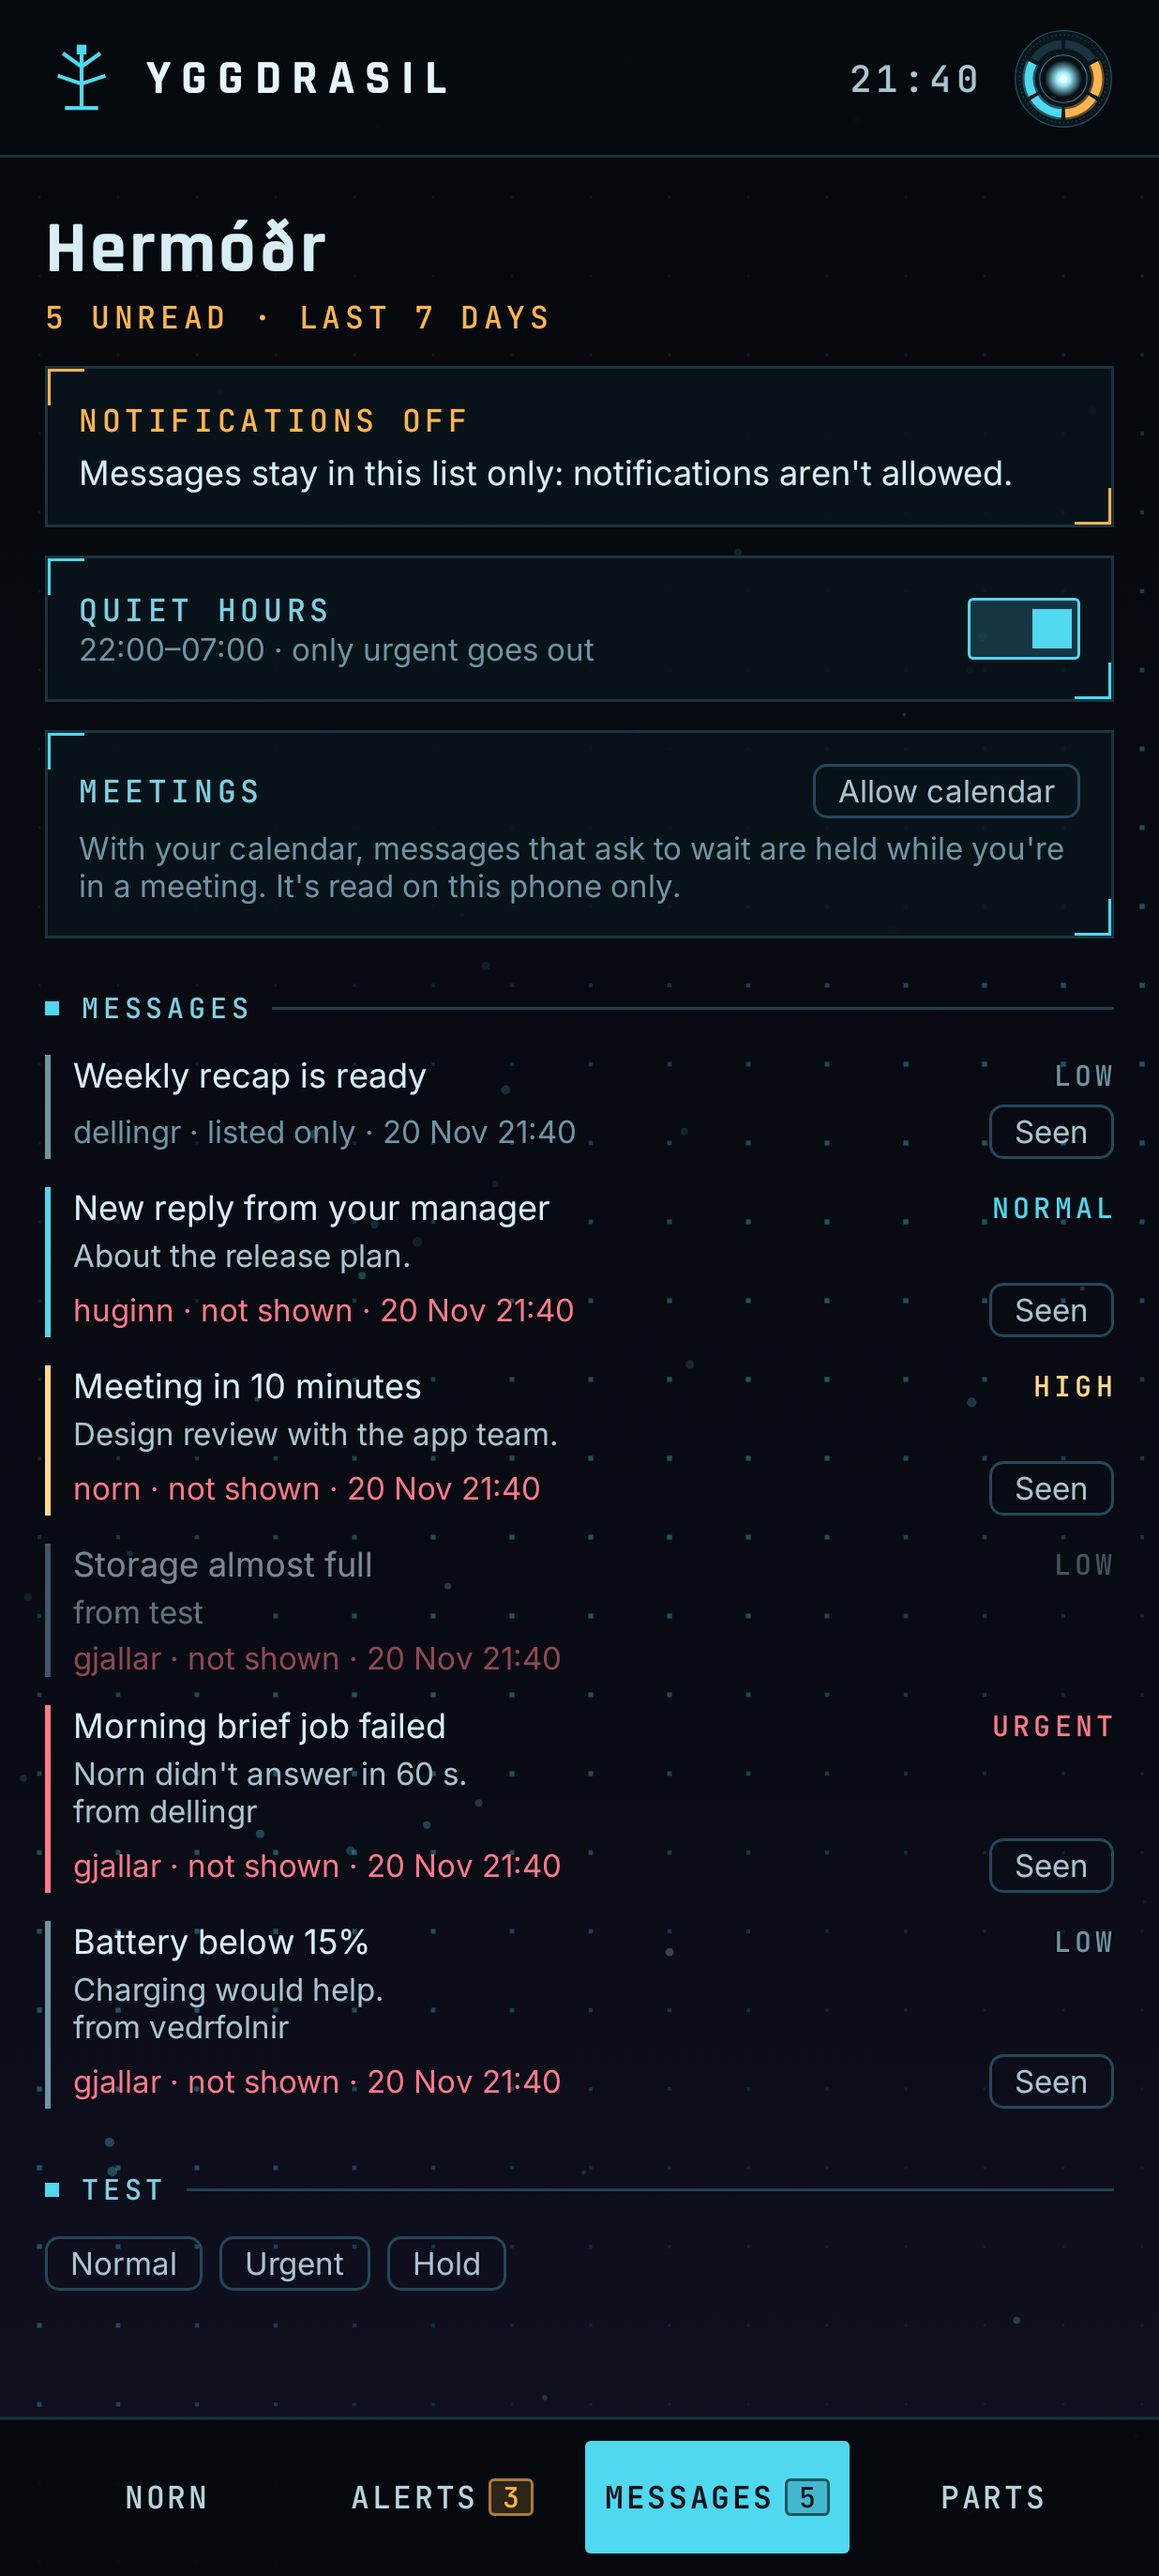
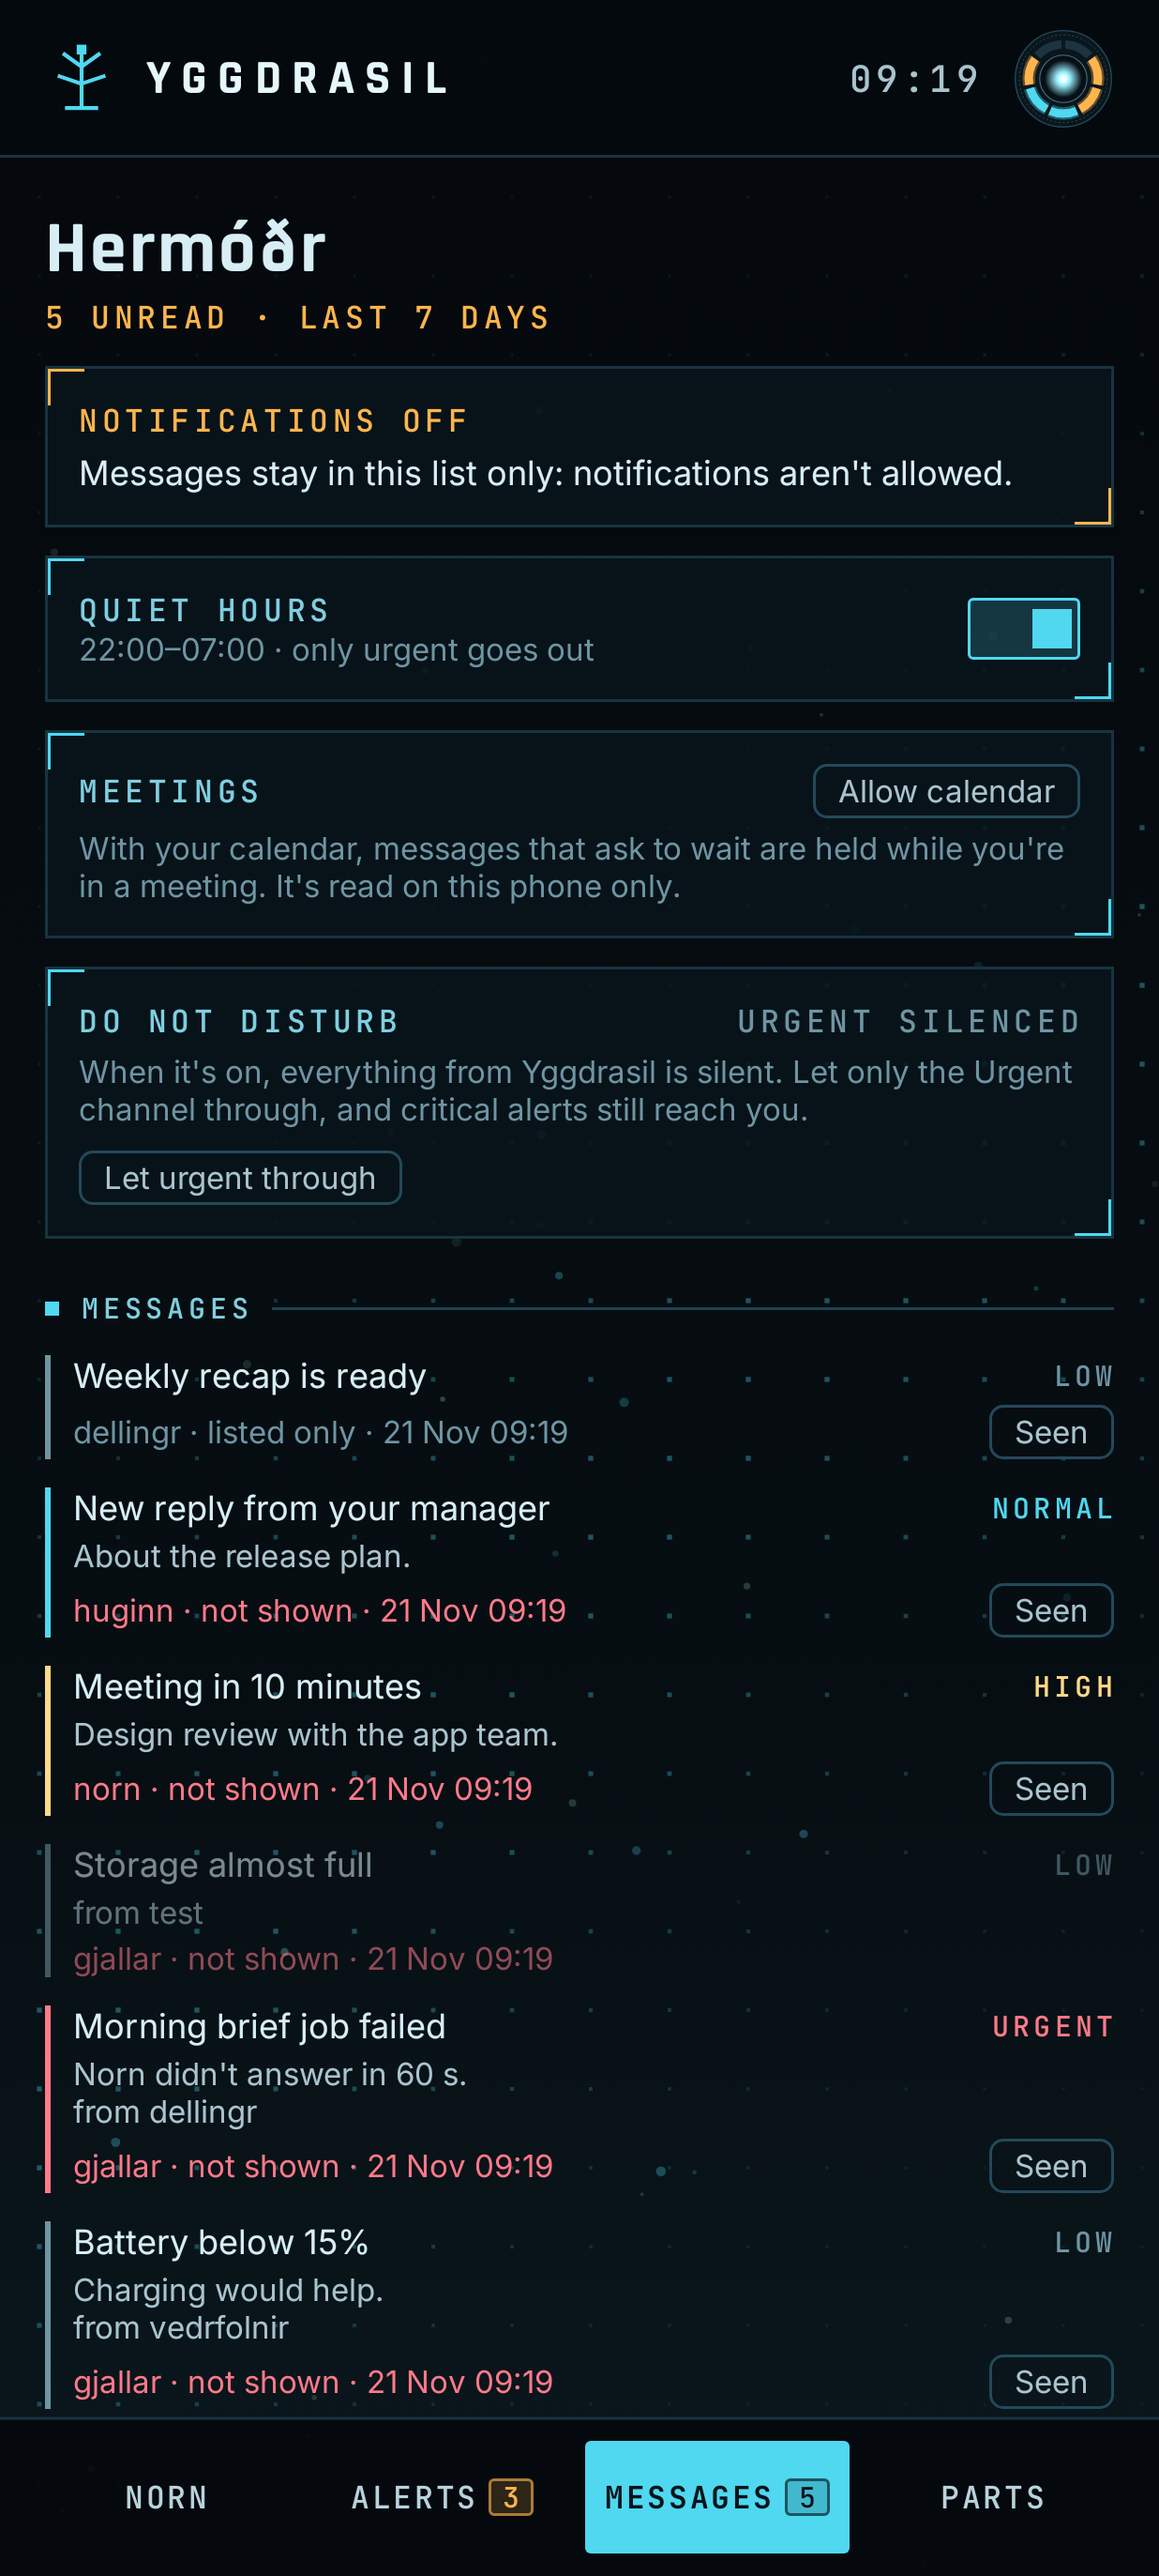
Show whether urgent messages get through Do Not Disturb
The Messages tab says whether Do Not Disturb is on and whether the
Urgent channel overrides it, and "Let urgent through" opens Android's
settings for that channel, the only place it can be switched on.

Claude-Session: https://claude.ai/code/session_01Ju5GZy8GGCdj4YrdykkjWf

diff --git a/app/src/main/java/io/github/sebbejohansson/yggdrasil/hermodr/MessagesScreen.kt b/app/src/main/java/io/github/sebbejohansson/yggdrasil/hermodr/MessagesScreen.kt
@@ -68,6 +68,7 @@ data class MessagesUiState(
     /** When the meeting you're in ends; null when free. */
     val busyUntil: Instant? = null,
     val nextMeeting: CalendarEvent? = null,
+    val dnd: DndStatus? = null,
 )
 
 @OptIn(ExperimentalCoroutinesApi::class)
@@ -102,6 +103,7 @@ class MessagesViewModel(
                 messages = hermodr.list(),
                 quietHours = q,
                 blocked = notifier.blockedReason(Priority.NORMAL),
+                dnd = notifier.dnd(),
                 calendarAllowed = allowed,
                 busyUntil = Busy.until(events, now),
                 nextMeeting = Busy.next(events, now),
@@ -201,6 +203,7 @@ fun MessagesScreen(vm: MessagesViewModel, modifier: Modifier = Modifier) {
             }
         }
         item { MeetingsPanel(s, onAllowed = vm::recheckPermission) }
+        s.dnd?.let { d -> item { DndPanel(d) } }
         item { HudSection("Messages", Modifier.padding(top = 8.dp)) }
         if (s.messages.isEmpty()) {
             item {
@@ -281,5 +284,44 @@ private fun MeetingsPanel(s: MessagesUiState, onAllowed: () -> Unit) {
             },
             style = HudText.meta,
         )
+    }
+}
+
+/**
+ * Android's Do Not Disturb silences Yggdrasil too. Letting only the urgent
+ * channel through keeps critical alerts and urgent messages loud, the rest
+ * quiet. Only you can switch that on, in Android's settings for the channel.
+ */
+@Composable
+private fun DndPanel(d: DndStatus) {
+    val context = androidx.compose.ui.platform.LocalContext.current
+    Column(
+        Modifier.fillMaxWidth().hudPanel(warn = d.on && !d.urgentGetsThrough).padding(12.dp),
+        verticalArrangement = Arrangement.spacedBy(4.dp),
+    ) {
+        Row(verticalAlignment = Alignment.CenterVertically) {
+            HudLabel("Do Not Disturb", color = Hud.group, modifier = Modifier.weight(1f))
+            HudLabel(
+                if (d.urgentGetsThrough) "urgent gets through" else "urgent silenced",
+                color = if (d.urgentGetsThrough) Hud.green else if (d.on) Hud.amber else Hud.overlay0,
+            )
+        }
+        Text(
+            when {
+                d.urgentGetsThrough && d.on -> "On now. Urgent messages and critical alerts still reach you; the rest wait quietly."
+                d.urgentGetsThrough -> "When it's on, urgent messages and critical alerts still reach you; the rest stay quiet."
+                d.on -> "On now: even urgent messages and critical alerts are silent. Let the Urgent channel through to change that."
+                else -> "When it's on, everything from Yggdrasil is silent. Let only the Urgent channel through, and critical alerts still reach you."
+            },
+            style = HudText.meta,
+        )
+        if (!d.urgentGetsThrough) {
+            HudButton(
+                "Let urgent through",
+                { context.startActivity(AndroidNotifier.urgentChannelSettings(context)) },
+                kind = HudButtonKind.SMALL,
+                modifier = Modifier.padding(top = 4.dp),
+            )
+        }
     }
 }

diff --git a/app/src/main/java/io/github/sebbejohansson/yggdrasil/hermodr/AndroidNotifier.kt b/app/src/main/java/io/github/sebbejohansson/yggdrasil/hermodr/AndroidNotifier.kt
@@ -103,9 +103,23 @@ class AndroidNotifier(private val context: Context) : Notifier {
 
     override fun cancel(notificationTag: String) = nm.cancel(notificationTag, NOTIFICATION_ID)
 
+    override fun dnd(): DndStatus {
+        val manager = context.getSystemService(NotificationManager::class.java)
+        val on = manager.currentInterruptionFilter != NotificationManager.INTERRUPTION_FILTER_ALL
+        // Only you can let a channel through Do Not Disturb: Android's channel setting "Override Do Not Disturb".
+        val bypass = manager.getNotificationChannel(channelId(Priority.URGENT))?.canBypassDnd() == true
+        return DndStatus(on, bypass)
+    }
+
     companion object {
         const val ALERT_TAG_PREFIX = "alert:"
         private const val NOTIFICATION_ID = 1
         fun channelId(p: Priority) = "hermodr_${p.name.lowercase()}"
+
+        /** Android's settings for the urgent channel, where "Override Do Not Disturb" is. */
+        fun urgentChannelSettings(context: Context): Intent =
+            Intent(android.provider.Settings.ACTION_CHANNEL_NOTIFICATION_SETTINGS)
+                .putExtra(android.provider.Settings.EXTRA_APP_PACKAGE, context.packageName)
+                .putExtra(android.provider.Settings.EXTRA_CHANNEL_ID, channelId(Priority.URGENT))
     }
 }

diff --git a/app/src/main/java/io/github/sebbejohansson/yggdrasil/hermodr/HermodrService.kt b/app/src/main/java/io/github/sebbejohansson/yggdrasil/hermodr/HermodrService.kt
@@ -16,7 +16,13 @@ interface Notifier {
     fun blockedReason(priority: Priority): String?
     fun show(message: Message)
     fun cancel(notificationTag: String)
+
+    /** How Android's Do Not Disturb treats the urgent channel; null where there's no such thing (tests). */
+    fun dnd(): DndStatus? = null
 }
+
+/** Whether Do Not Disturb is on, and whether urgent messages get through it anyway. */
+data class DndStatus(val on: Boolean, val urgentGetsThrough: Boolean)
 
 /** Wakes Hermóðr at [at] to send what it held. */
 interface FlushScheduler {

diff --git a/README.md b/README.md
@@ -113,6 +113,11 @@ Hermóðr. Both keep their state in `ygg.db` (SQLite).
 - When notifications are off, the message is kept with the reason, and the
   Messages tab says why.
 - Messages are kept for 7 days.
+- **Do Not Disturb:** Android silences Yggdrasil too. The Messages tab says
+  whether the Urgent channel gets through, and *Let urgent through* opens
+  Android's settings for that channel, where only you can switch on
+  "Override Do Not Disturb". Critical alerts and urgent messages then still
+  reach you, and the rest stay quiet.
 
 Notification buttons: **Seen** on messages, **Acknowledge** and **Snooze 1 h**
 on alerts. The Alerts and Messages tabs have test buttons that run the
